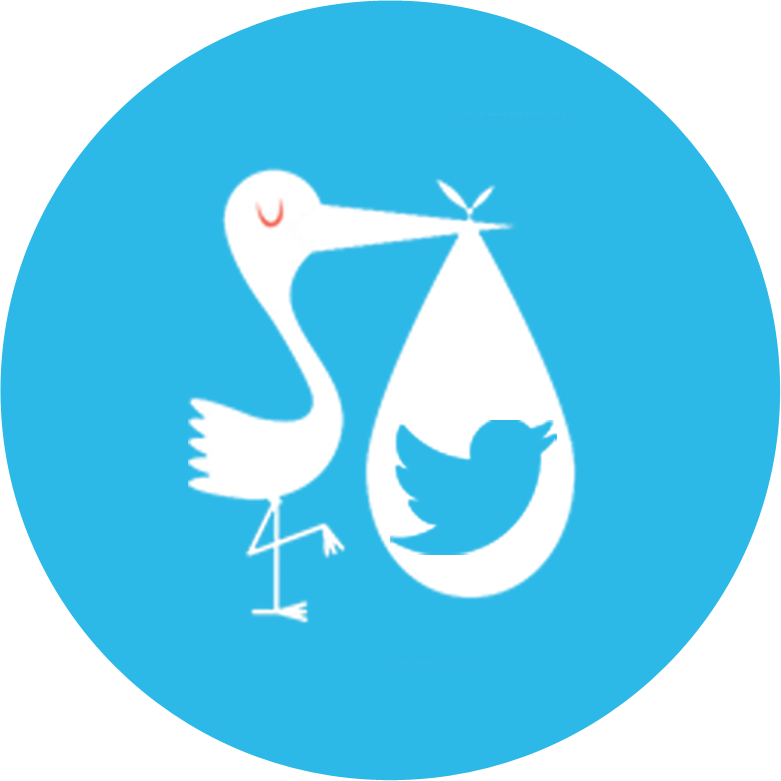
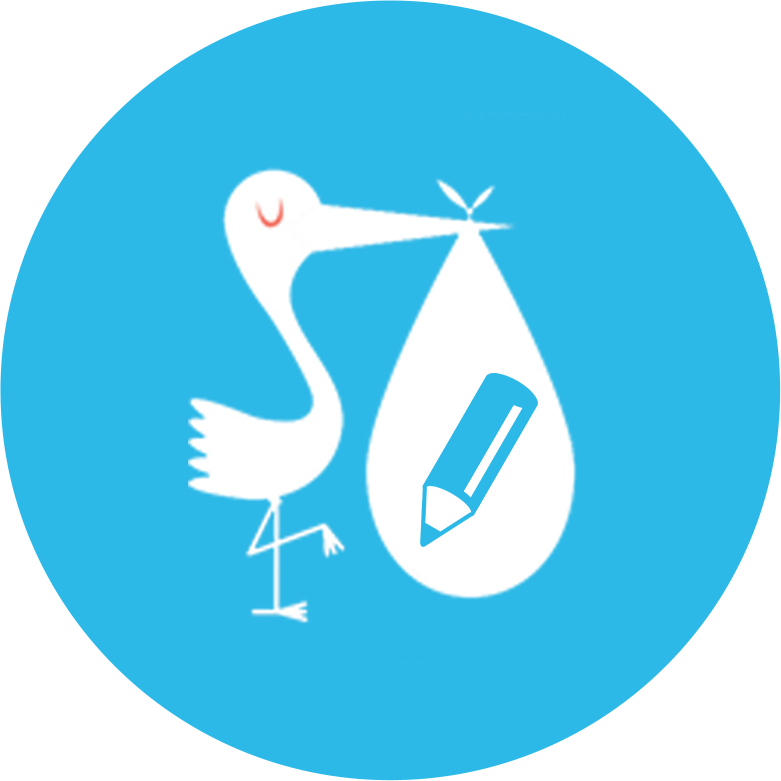
Primer post

Changed region(s): [[0.4917, 0.4609, 0.7068, 0.7375]]

diff --git a/templates/interactive.html b/templates/interactive.html
@@ -2,13 +2,24 @@
 <html lang="es">
 <head>
 	<title>Prueba Jquery</title>
+	<link rel="shortcut icon" type="image/png" href="{{url_for('static', filename='favicon.png') }}"/>
+
+	<meta name="twitter:card" content="summary" />
+	<!-- <meta name="twitter:site" content="@flickr" /> -->
+	<meta name="twitter:title" content="Mi primer posteo" />
+	<meta name="twitter:description" content="Yo recordé mi primer posteo, ¿te gustaría recordar el tuyo?" />
+	<meta name="twitter:image" content="{{url_for('static', filename='primertuit.png') }}" />
+
 	<link rel="stylesheet" type="text/css" href="../static/jquery.fullPage.css" />
 	<link rel="stylesheet" type="text/css" href="../static/style.css" />
 
 	<script src="//ajax.googleapis.com/ajax/libs/jquery/1.11.1/jquery.min.js"></script>
 	<script src="http://ajax.googleapis.com/ajax/libs/jqueryui/1.9.1/jquery-ui.min.js"></script>
+	
 	<script type="text/javascript" src="../vendors/scrolloverflow.js"></script>
 	<script type="text/javascript" src="../static/jquery.fullPage.js"></script>
+	
+	<script src="https://use.fontawesome.com/7c5f458eb4.js"></script>
 
 	<script type=text/javascript>
 		// $(function() {
@@ -32,7 +43,7 @@
 			<div class="content">
 				<div class="inter">
 					<img src="{{url_for('static', filename='ciguena.png') }}" alt="¿Recuerdas tu primer tuit?">
-					<h1>¿RECUERDAS TU PRIMER TUIT?</h1>
+					<h1>¿RECUERDAS TU PRIMER POSTEO?</h1>
 
 				</div>
 				<div class="scroll">scroll down<br/><img src="{{url_for('static', filename='scroll.png') }}" alt="Scroll down" class="arrow"></div>
@@ -43,23 +54,16 @@
 			<div class="content">
 				<div class="inter">
 					<img src="{{url_for('static', filename='miprimertuit.png') }}" alt="¿Recuerdas tu primer tuit?">
-					<h2><span class="regular">mi</span><span class="strong-tuit">primer</span>tuit.<span class="little-tuit">com</span></h2>	
+					<h2><span class="regular">mi</span><span class="strong-tuit">primer</span>posteo.<span class="little-tuit">com</span></h2>	
 				</div>
 				<p>Te preguntarás cómo algo que tú escribiste,<br/>no puedes recordarlo.</p>
-				<p>Algo tan simple como <strong>tu primer tuit.</strong></p>
+				<p>Algo tan simple como <strong>tu primer posteo.</strong></p>
 				<p>Pensamos que te interesaría leerlo de nuevo.</p>
-				<a href="{{url_for('index') }}"><button>INGRESA</button></a>
+				<a href="{{url_for('login') }}"><button class="log-fb"><i class="fa fa-facebook"></i> FACEBOOK</button></a><br/>
+				<a href="{{url_for('login') }}"><button class="log-tw"><i class="fa fa-twitter"></i>TWITTER</button></a>
 			</div>
 		</div>
 	</div>
-	<!-- <div class='container'>
-		<h3>Welcome! Which is the best programming language of them all?</h3>
-		<form>
-			<input type=text size=5 name=proglang>
-			<a href=# id=process_input><button class='btn btn-default'>Submit</button></a>
-		</form>
-		<p id=result></p>
-	</div> -->
 </body>
 </html>
 	

diff --git a/templates/tweets.html b/templates/tweets.html
@@ -2,13 +2,18 @@
 <html lang="es">
 <head>
 	<title>Prueba Jquery</title>
+	<link rel="shortcut icon" type="image/png" href="{{url_for('static', filename='favicon.png') }}"/>
+
 	<link rel="stylesheet" type="text/css" href="../static/jquery.fullPage.css" />
 	<link rel="stylesheet" type="text/css" href="../static/style.css" />
 
 	<script src="//ajax.googleapis.com/ajax/libs/jquery/1.11.1/jquery.min.js"></script>
 	<script src="http://ajax.googleapis.com/ajax/libs/jqueryui/1.9.1/jquery-ui.min.js"></script>
+	
 	<script type="text/javascript" src="../vendors/scrolloverflow.js"></script>
 	<script type="text/javascript" src="../static/jquery.fullPage.js"></script>
+	
+	<script src="https://use.fontawesome.com/7c5f458eb4.js"></script>
 
 	<script type=text/javascript>
 		// $(function() {
@@ -36,8 +41,10 @@
 						<h3>{{ data.tweet_text }}</h3>
 						<h4>@{{ username.screen_name }}</h4>
 					</div>
-					<p>Para ti fue difícil recordar <strong>tu primer tuit.</strong><br/>
+					<p>Para ti fue difícil recordar <strong>tu primer posteo.</strong><br/>
 					Hay pacientes con <strong>Alzheimer</strong> que no recuerdan su nombre.</p>
+					<a class="share-tw" href="https://twitter.com/share?url=http://aneacolacao.pythonanywhere.com/&text={{ data.tweet_text }}"><button><i class="fa fa-twitter"></i> COMPARTE</button></a>
+					 
 				</div>
 				<div class="scroll">scroll down<br/><img src="{{url_for('static', filename='scroll.png') }}" alt="Scroll down" class="arrow"></div>
 				
@@ -46,11 +53,10 @@
 		<div class="section" id="fundacion">
 			<div class="content">
 				<h2>Fundación <strong>Alzheimer</strong> México</h2>
-				<p>Te invitamos a hacer una donación para combatir essta enfermedad. Con tu ayuda,<br/>
+				<p>Te invitamos a hacer una donación para combatir esta enfermedad. Con tu ayuda,<br/>
 				desarrollamos programas de investigación, apoyo y servicios esenciales<br/>
 				que ayudan a nuestros pacientes a mejorar su calidad de vida.</p>
 				<div class="buttons">
-					<a href="#"><button>COMPARTE</button></a>
 					<a href="#"><button>DONA</button></a>
 				</div>
 				<p>Fundación Alzheimer, Alguien con quien contar I.A.P.</p>

diff --git a/static/style.css b/static/style.css
@@ -67,7 +67,7 @@ h1{
 	justify-content: center;
 }
 #recuerdas img{
-	width: 300px;
+	width: 180px;
 	margin: 0 auto;
 }
 #recuerdas .scroll, #primero .scroll{
@@ -86,8 +86,8 @@ h1{
 	color: #898174;
 }
 #ingresa img{
-	width: 160px;
-	height: 160px;
+	width: 130px;
+	height: 130px;
 	margin-right: 20px;
 }
 #ingresa h2, #fundacion h2{
@@ -110,6 +110,7 @@ h1{
 #ingresa .inter, #fundacion .inter{
 	display: flex;
 	align-self: center;
+	align-items: center;
 }
 #ingresa p, #primero p, #fundacion p{
 	font-family: 'HelveticaNeueCond';
@@ -120,20 +121,57 @@ h1{
 #ingresa strong, #primero strong, #fundacion strong{
 	font-weight: 400;
 }
-#ingresa button, #fundacion button{
+#ingresa button, #fundacion button, #primero button{
 	background-color: #dcd5b8;
     border: none;
-    padding: 20px 30px;
+    padding: 10px 0 8px;
+    border-radius: 10px;
+    width: 160px;
     font-family: 'HelveticaNeueCond';
     font-weight: 300;
-    font-size: 30px;
+    font-size: 20px;
     color: #605951;
     cursor: pointer;
 }
+
+#ingresa button.log-fb{
+	background-color: #3b5998;
+	color: #fff;
+}
+
+#ingresa button.log-tw{
+	background-color: #1da1f2;
+	color: #fff;
+}
+
+#primero a.share-tw button{
+	background-color: #f2eee3;
+	color: #1da1f2;
+	width: 160px;
+	border-radius: 10px;
+	padding: 10px 0 8px;
+}
+#primero a i{
+	color: #1da1f2;
+}
+
+.section a i{
+	margin-right: 5px;
+}
+
 #primero img{
 	width: 160px;
-	margin: 0 auto;
+	margin: 0 auto 2%;
 }
+
+#primero .primertuit{
+	margin-bottom: 2%;
+}
+
+#primero p{
+	margin: 0 auto 2%;
+}
+
 #primero h3{
 	font-weight: 100;
 	font-size: 60px;
@@ -142,7 +180,7 @@ h1{
 #primero h4{
 	font-weight: 100;
 	font-size: 50px;
-	margin: 0 0 10px;
+	margin: 0;
 }
 #fundacion h2{
 	font-weight: 100;

diff --git a/server.py b/server.py
@@ -33,8 +33,12 @@ db = dict() #you can save these values to a database
 # set the secret key.  keep this really secret:
 app.secret_key = 'A0Zr98j/3yX R~XHH!jmN]LWX/,?RT'
 
-@app.route("/")
+@app.route('/')
 def index():
+	return render_template('interactive.html')
+
+@app.route("/login")
+def login():
 	auth = OAuthHandler(CONSUMER_TOKEN, CONSUMER_SECRET, CALLBACK_URL)
 	print 'soy login'
 	try: 
@@ -152,9 +156,6 @@ def start():
 									data = tuit)
 
 
-@app.route('/interactive/')
-def interactive():
-	return render_template('interactive.html')
 
 
 
